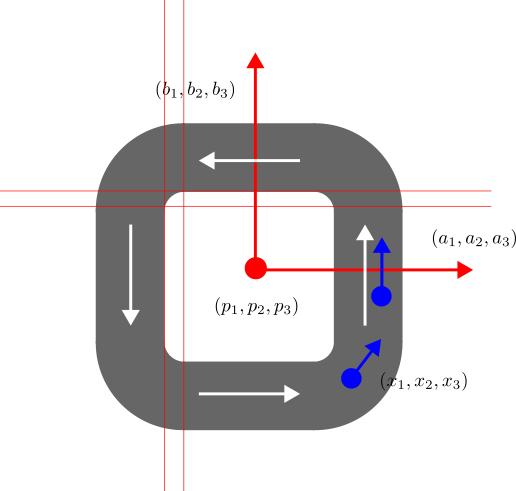
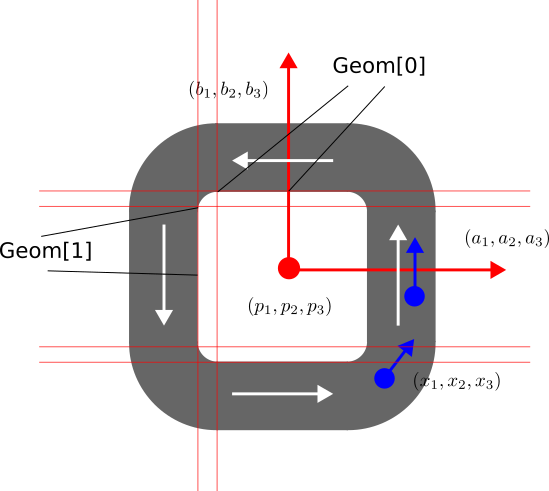
c

diff --git a/src/_multix/multix_4.rst b/src/_multix/multix_4.rst
@@ -3,7 +3,45 @@
 前后处理
 **********************
 
+MultiX目前有两种配置文件，之后可以进一步合并，分别是.conf和.xml。
+.xml保存在各个模块的 ``conf`` 路径下，例如 ``FENGSim/starter/multix/Maxwell/conf`` 路径下的 ``configure.xml`` 。
+MultiX的网格文件格式是.geo，在 ``FENGSim/starter/multix`` 路径下的 ``dat2geo.py`` 和 ``geo2dat.py`` ，可以将.dat和.geo互相转换。
+
+在静磁模块的 ``configure.xml`` 中比较重要的是定义线圈中的电流。在线圈Geom属性中定义了几何尺寸，一共四个数值，
+其中第一个和第二个如图中的Geom[0]和Geom[1]，第三个和第四个是线圈横截面的长宽。线圈平面的位置以及局部坐标系x轴和y轴方向定义如图中a，b，p。
+
+.. code-block:: xml
+
+      <part_5>
+	<Attributes>5</Attributes>
+      	<CurrentIntensity>3000</CurrentIntensity>
+	<Geom>0.015,0.015,0.020,0.017</Geom>
+	<Position>0,0,0</Position>
+	<DirectionA>1,0,0</DirectionA>
+	<DirectionB>0,0,1</DirectionB>
+      </part_5>
+
 .. image:: fig/coil.png
+   :scale: 50 %
+   :alt: alternate text
+   :align: center
+
+
+	   
+--------------------
+dat转geo
+--------------------
+
+.. image:: fig/dat2geo.png
+   :scale: 50 %
+   :alt: alternate text
+   :align: center
+
+--------------------
+geo转dat
+--------------------
+
+.. image:: fig/geo2dat.png
    :scale: 50 %
    :alt: alternate text
    :align: center
